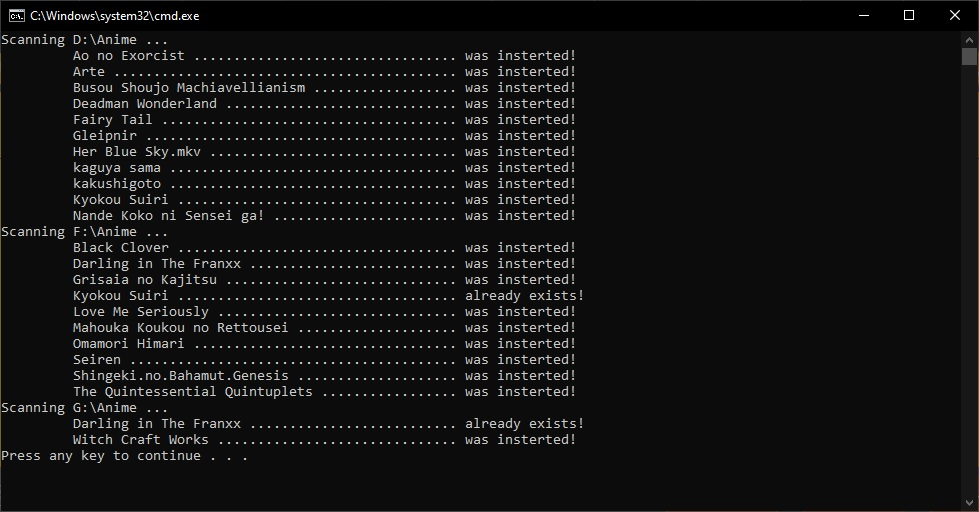
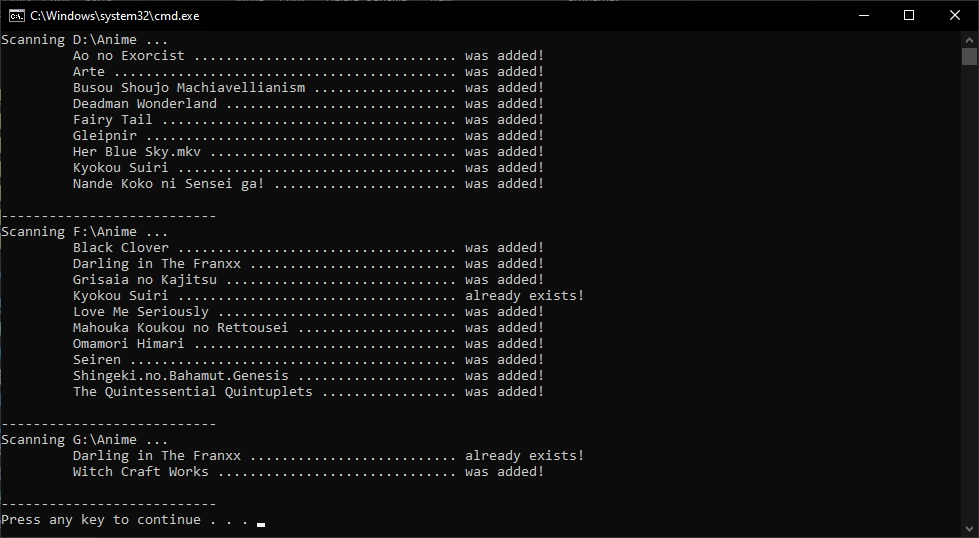
adding episodes, fix a typo, change indexer console output

diff --git a/index.php b/index.php
@@ -72,6 +72,7 @@ $list=$db->animelist()->order("$sort $order");
 							<div class="data-item ">Members: <span class="value"><?=number_format($a['members'])?></span></div>
 							<div class="data-item ">Popularity: <span class="value"><?=$a['popularity']?></span></div>
 							<div class="data-item ">ES-Score: <span class="value"><?=round($a['es_score'],2)?></span></div>
+							<div class="data-item ">Episodes: <span class="value"><?=$a['episodes']?></span></div>
 							<div class="data-item ">Added: <span class="value"><?=explode(' ',$a['added_time'])[0]?></span></div>
 							<div class="data-item ">Geners: <span class="value"><?=$a['genres']?></span></div>
 							<a class="data-item path" path="<?="$a[path]"?>" href="<?=str_replace("\\","/","explore://$a[path]")?>" ><?=$a['path']?></a>

diff --git a/core.php b/core.php
@@ -1,9 +1,6 @@
 <?php
-	
-define('THUMBNAILS_DIR',__DIR__."/thumbnails");
-define('DEFAULT_PROXY', "socks5://192.168.1.2:9050");
-
 include  __DIR__."/NotORM/NotORM.php";
+include  __DIR__."/config.php";
 /* 
 CREATE TABLE "animelist" (
 	"id"	INTEGER PRIMARY KEY AUTOINCREMENT UNIQUE,
@@ -185,12 +182,13 @@ function fetchByNameQuery($name,$path){
 					'synopsis'=>$data['jikanData']['synopsis'],
 					'added_time'=>date("Y-m-d H:i:s",filemtime($path)),
 					'genres'=>implode(', ',array_column($data['jikanData']['genres'],'name')),
+					'episodes'=>$data['jikanData']['episodes'],
 				];
 				
 				
 				$r=$db->animelist()->insert($insertData);
 				// dd($insertData);
-				echo " was insterted!\n";
+				echo " was added!\n";
 				//print_r($insertData);
 				
 			}

diff --git a/config.php b/config.php
@@ -1,8 +1,12 @@
 <?php
 define("DRIVE_SEARCH_SUB_DIR","Anime");
+define('DEFAULT_PROXY', "socks5://192.168.1.2:9050");
 
+
+define('THUMBNAILS_DIR',__DIR__."/thumbnails");
 define("BEFORE_INDEX_QUERIES",
 "
+DROP TABLE animelist;
 CREATE TABLE IF NOT EXISTS 'animelist' (
 	'id'	INTEGER PRIMARY KEY AUTOINCREMENT UNIQUE,
 	'title'	TEXT UNIQUE,
@@ -19,7 +23,8 @@ CREATE TABLE IF NOT EXISTS 'animelist' (
 	'favorites'	INTEGER,
 	'synopsis'	TEXT,
 	'added_time'	TEXT,
-	'genres'	TEXT
+	'genres'	TEXT,
+	'episodes'	INTEGER
 );
 Delete from animelist;
 DELETE FROM SQLITE_SEQUENCE WHERE name='animelist';

diff --git a/indexer.php b/indexer.php
@@ -1,6 +1,5 @@
 <?php
 include __DIR__."/core.php";    
-include __DIR__."/config.php";    
 
 // print_r(get("ifconfig.co/ip"));    
 	
@@ -36,6 +35,8 @@ foreach($fso->Drives as $drive) {
 				sleep(2);
             }
         }
+		echo "\n---------------------------\n";
+		
 
     }
 }
